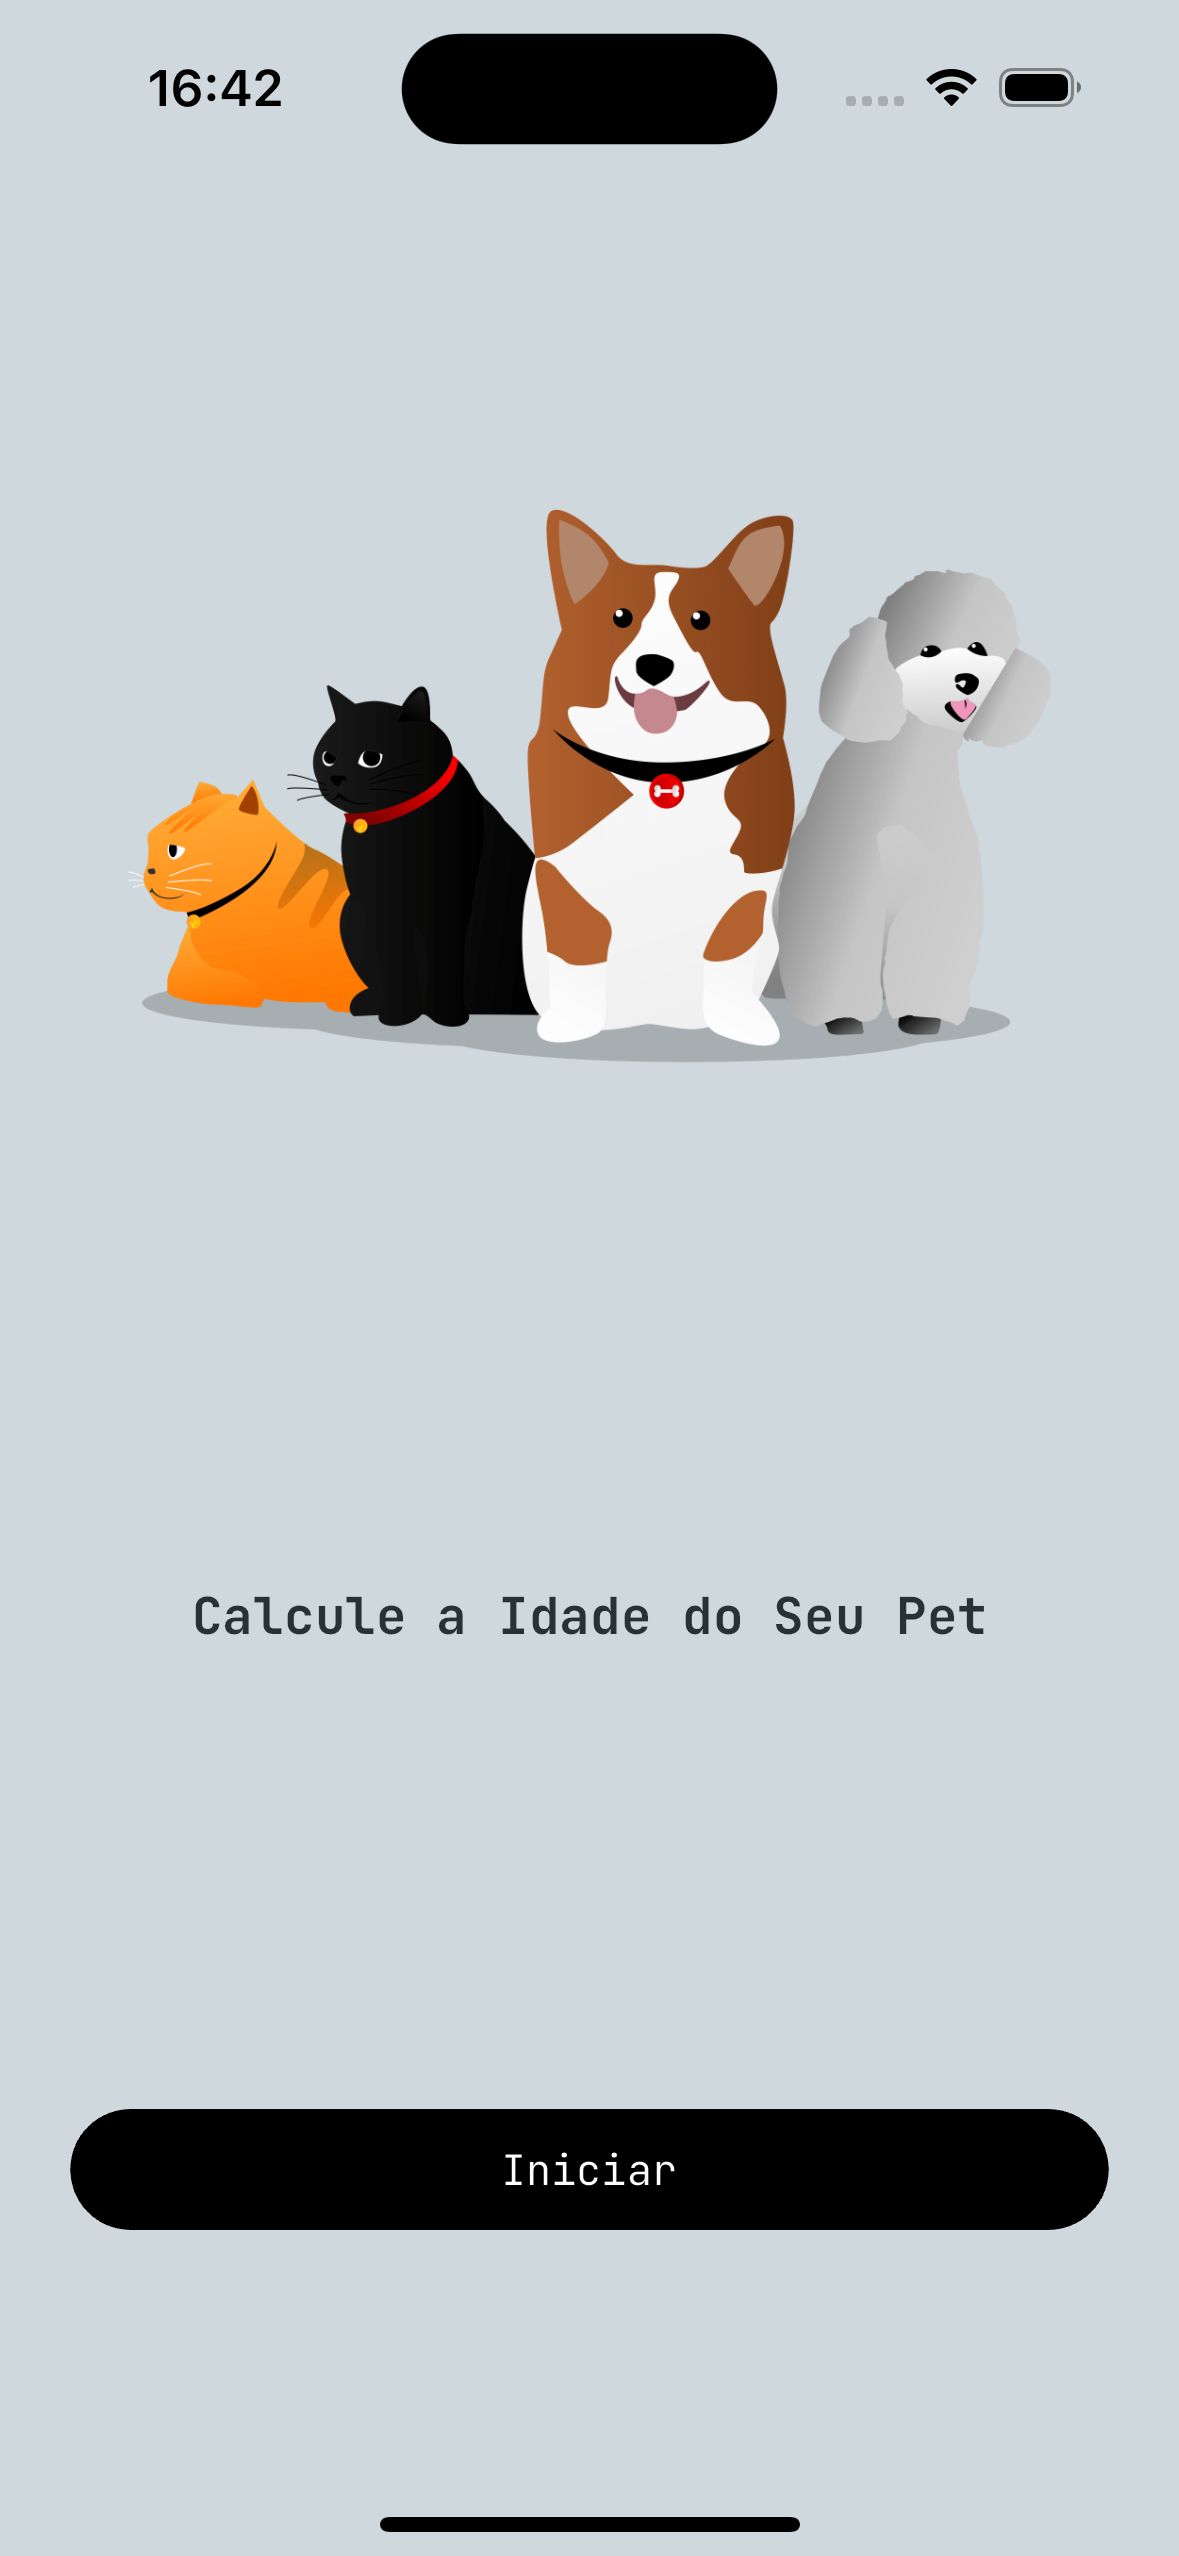
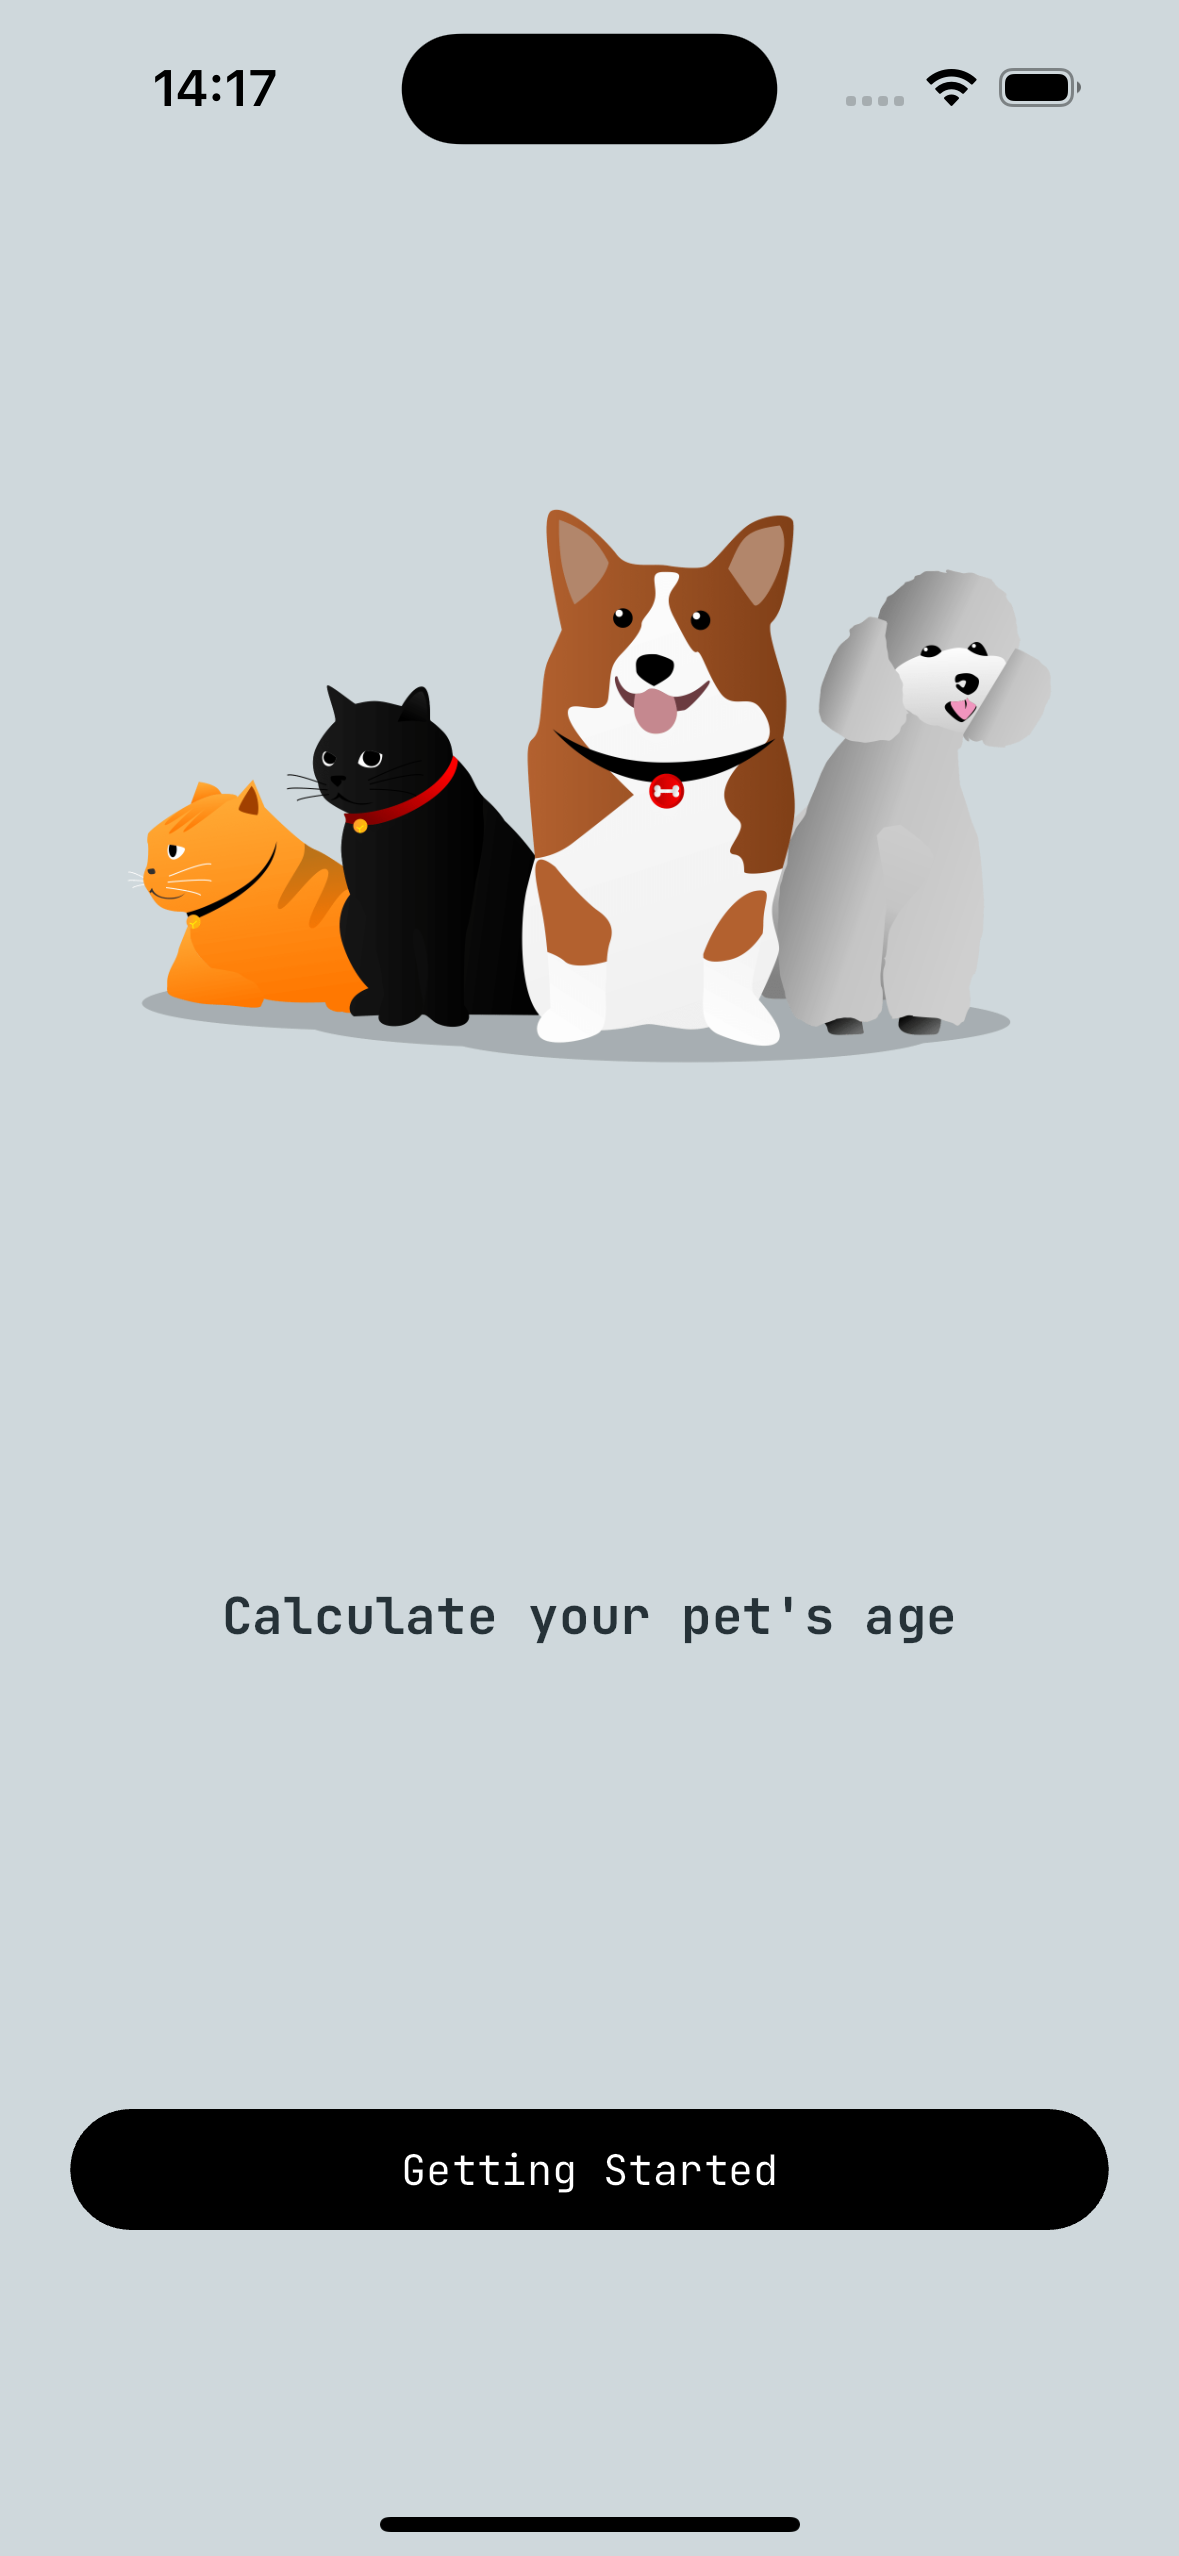
Refactor assets and readme

diff --git a/README.md b/README.md
@@ -8,6 +8,7 @@
 - Flutter
 - Get Widget UI
 - Google Fonts
+- Locale Language
 
 <br />
 
